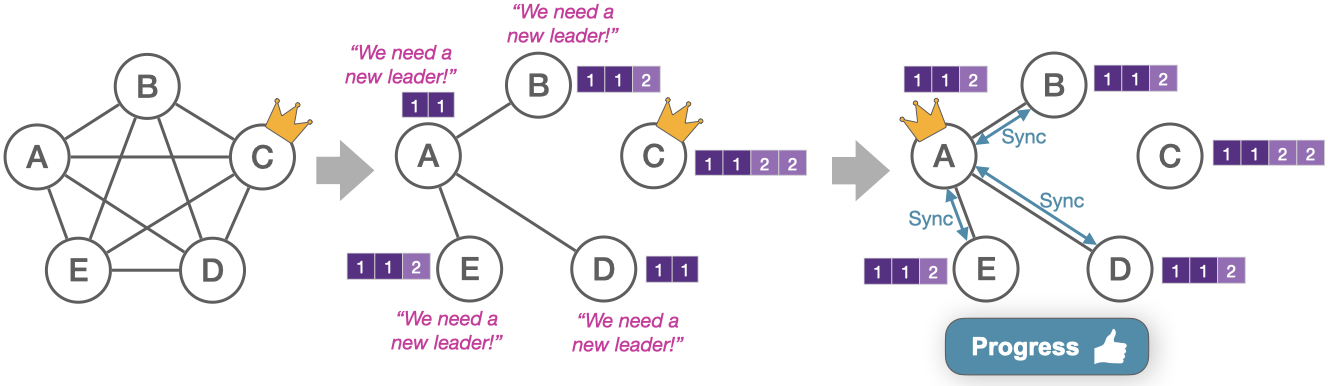
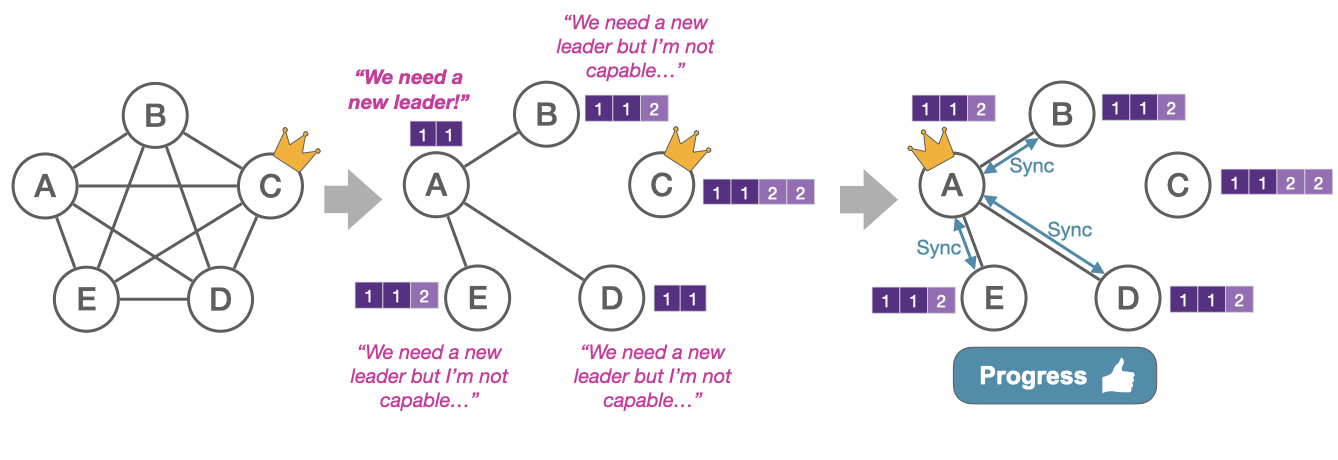
Updated text and PNGs

diff --git a/content/en/blog/partial-connectivity/index.md b/content/en/blog/partial-connectivity/index.md
@@ -28,7 +28,7 @@ This situation is distinct from the standard assumption of network partitions, w
 
 ![Quorum-Loss scenario](images/quorum-loss.png)
 
-Consider a situation where we initially have 5 servers (A-E) that are fully-connected. Server C is initially able to correctly function as the leader since it's connected to a majority quorum. But later, partial connectivity causes it to no longer be connected to a quorum and therefore unable to commit any new entries. At this point, servers B, D, and E detect that they have lost connection to their leader C and initiate a new election, but they all fail to receive a majority of votes which is required for becoming leader. On the other hand, server A is connected to a quorum and potentially able to function as the leader. However, since it is still connected to its leader C, it will not initiate a new election to become the leader.
+Consider a situation where we initially have 5 servers (A-E) that are fully-connected. Server C is initially able to correctly function as the leader since it's connected to a majority quorum. But later, partial connectivity causes it to no longer be connected to a quorum and therefore unable to commit any new entries. At this point, servers B, D, and E detect that they have lost connection to their leader C but are unable to become leaders themselves as they are not connected to a quorum. On the other hand, server A is connected to a quorum and able to function as the leader. However, since A is still connected to its leader C, it does not initiate a new election to become the leader.
 
 This results in a deadlock for protocols such as Raft and MultiPaxos where servers use the alive status of the leader to determine if an election should be initiated. Viewstamped Replication (VR) will also be deadlocked despite its round-robin election scheme. A server only votes for a leader (view) change if it observes a majority that also wants to do the same. This design originates in the classic assumption we showed earlier, where servers are fully connected within each partition. But here, it results in servers B-E not voting for a leader change as required.
 
@@ -46,7 +46,7 @@ The constrained-election scenario is similar to the quorum-loss scenario, but th
 
 ![Chained scenario](images/chained.png)
 
-In the chained scenario, we initially have three fully-connected servers where B is the leader. But then B and C disconnect, which makes C think that B has failed, and try take over leadership with a higher term number. Server A will adopt C’s higher term number and subsequently reject proposals from B. When A rejects B, it will include the current term number, and B will therefore get to know that it has been overtaken. After a while, B will timeout hearing from C and the described scenario will reoccur in the reversed direction; B will call for a new election with an even higher term number and regain leadership. This results in a livelock where the leader repeatedly changes. Servers have inconsistent views on who is alive and trigger new terms as soon as the leader is suspected to have failed.
+In the chained scenario, we initially have three fully-connected servers where B is the leader. B and C disconnect causing C, believing B has failed, to try and take over leadership with a higher term number. Server A will adopt C’s higher term number and subsequently reject proposals from B. When A rejects B, it will include the current term number, and B will therefore get to know that it has been overtaken. After a while of not hearing from the new leader C, server B will timeout and the described scenario will reoccur in the reversed direction; B will call for a new election with an even higher term number and regain leadership. This results in a livelock where the leader repeatedly changes. The servers have inconsistent views on who is alive and trigger new terms as soon as the leader is suspected to have failed.
 
 **Key insight:** Gossiping the identity of the current leader can cause liveness issues if servers have inconsistent views on who is alive.
 
@@ -74,7 +74,7 @@ In this scenario, all the follower servers become disconnected from the leader. 
 
 ![chained-omni](images/chained-omni.png)
 
-In the chained scenario, once again C detects the need for a new leader and, together with A’s vote, becomes the next leader. This time, however, the election of C is not gossiped to server B since the ballots only include the A's own ballot number and QC status. This means that server B will not interrupt the stability of C’s leadership. Instead, servers A and C can continue to make progress as a quorum.
+In the chained scenario, once again C detects the need for a new leader and, together with A’s vote, becomes the next leader. This time, however, the election of C is not gossiped to server B. This is because the heartbeats that A sends only includes its own ballot number and NOT the ballot of its leader. Server B will not see that C has been elected and therefore not interrupt the stability of C’s leadership. Instead, servers A and C can continue to make progress as a quorum.
 
 ### Conclusion
 
